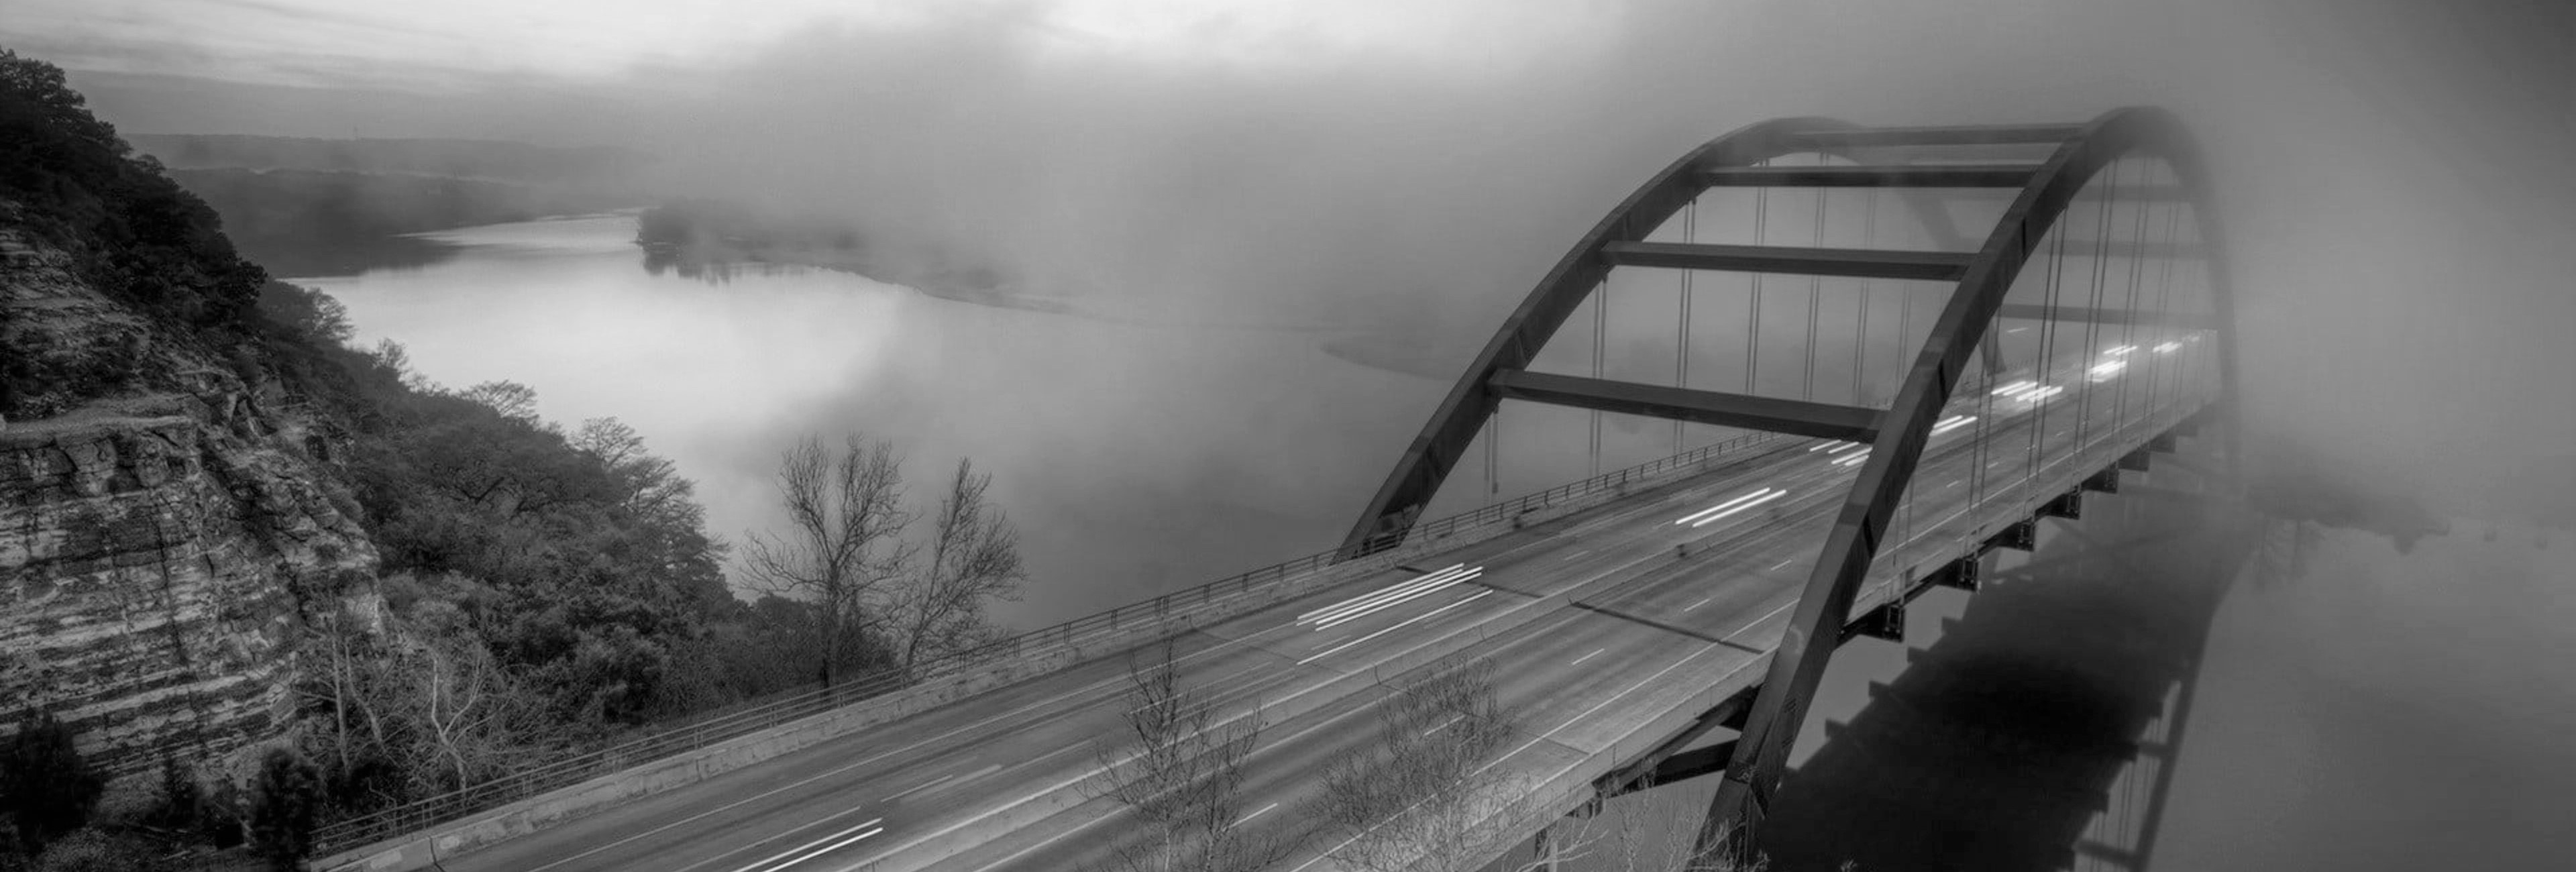
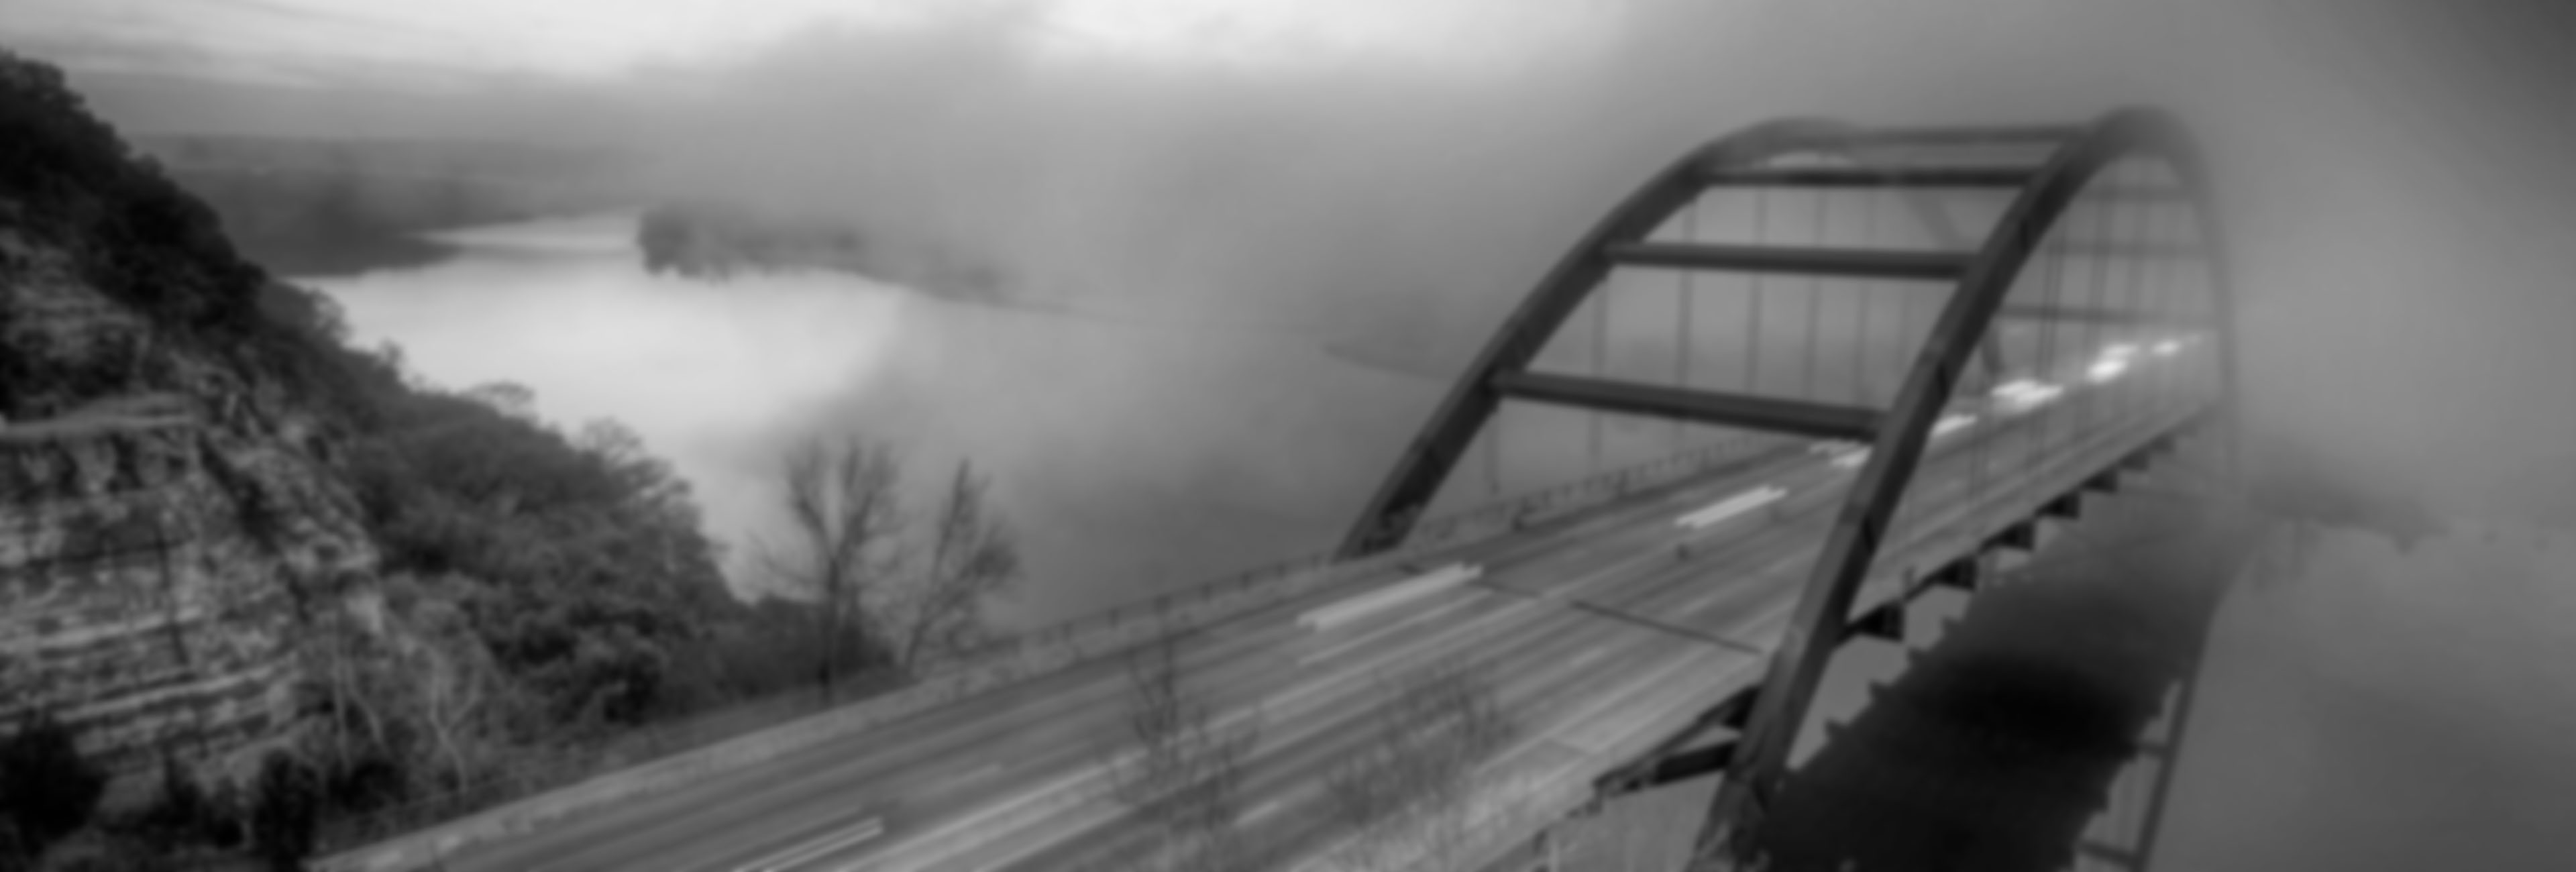
Late night changes 2/19/21

diff --git a/src/styling/homeStyle.js b/src/styling/homeStyle.js
@@ -1,18 +1,26 @@
 import styled from 'styled-components';
-import Bridge from '../images/360bridge.jpg';
+import Bridge from '../images/sunset.jpg';
 
 
 export const Header = styled.div`
     background-image: url(${Bridge});
     background-size: 100% 100%;
     /* opacity: 0.50; */
-    height: 900px;
+    height: 1100px;
 `
 
 export const Image = styled.image`
-    width: 60%;
     display: block;
     margin-left: auto;
     margin-right: auto;
+    padding-top: 20px;
+    width: 40%;
+`
+
+export const Description = styled.p`
+    margin-top: -50px;
+    font-size: 60px;
+    font-weight: lighter;
+    text-align: center;
 `
 ;

diff --git a/src/pages/index.js b/src/pages/index.js
@@ -1,6 +1,6 @@
 import React from 'react'
 import Logo from '../images/cmLogoModern.svg';
-import { Header, Name, Image } from '../styling/homeStyle.js'
+import { Header, Name, Image , Description} from '../styling/homeStyle.js'
 
 function Home() {
     return (
@@ -10,6 +10,9 @@ function Home() {
                 <Image>
                     <img src={Logo} alt='logo' />                
                 </Image>
+                <Description>
+                    <p>Web Developer</p>
+                </Description>
             </Header>
         </>
     )

diff --git a/src/components/navbar/index.js b/src/components/navbar/index.js
@@ -7,9 +7,6 @@ const Navbar = () => {
     return (
         <>
             <Nav>
-                <NavLink to="/">
-                <img style={{width: 120,height:120}} src={Logo} alt='logo' />
-                </NavLink>
                 <Bars /> 
                 <NavMenu>
                     <NavLink to="/about" activeStyle>

diff --git a/src/components/navbar/NavbarElements.js b/src/components/navbar/NavbarElements.js
@@ -7,7 +7,7 @@ export const Nav = styled.nav`
     opacity: 70%;
     height: 40px;
     display: flex;
-    justify-content: space-between;
+    justify-content: center;
     padding: 0.5rem calc((100vw - 1000px) / 2);
     z-index: 10;
 `
